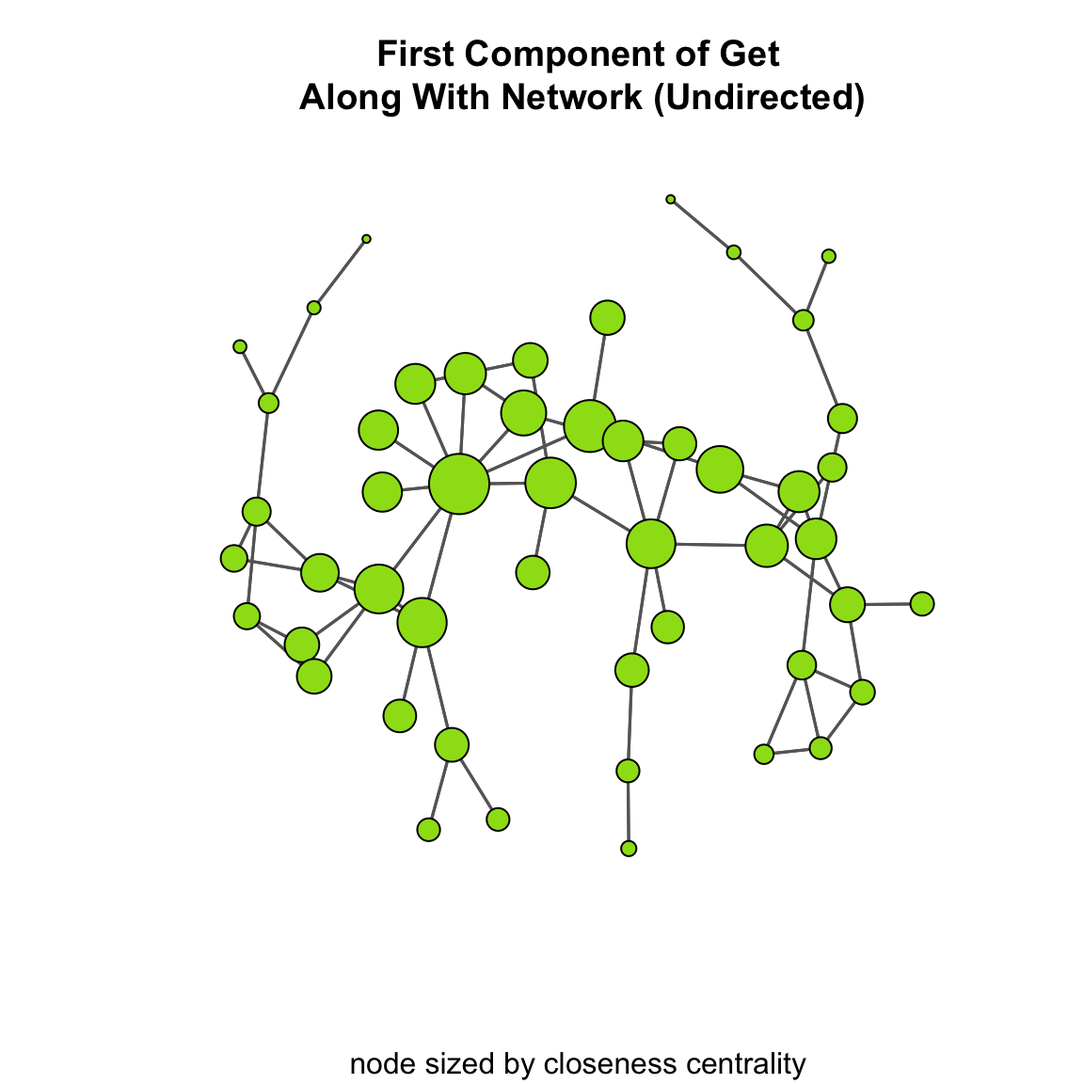
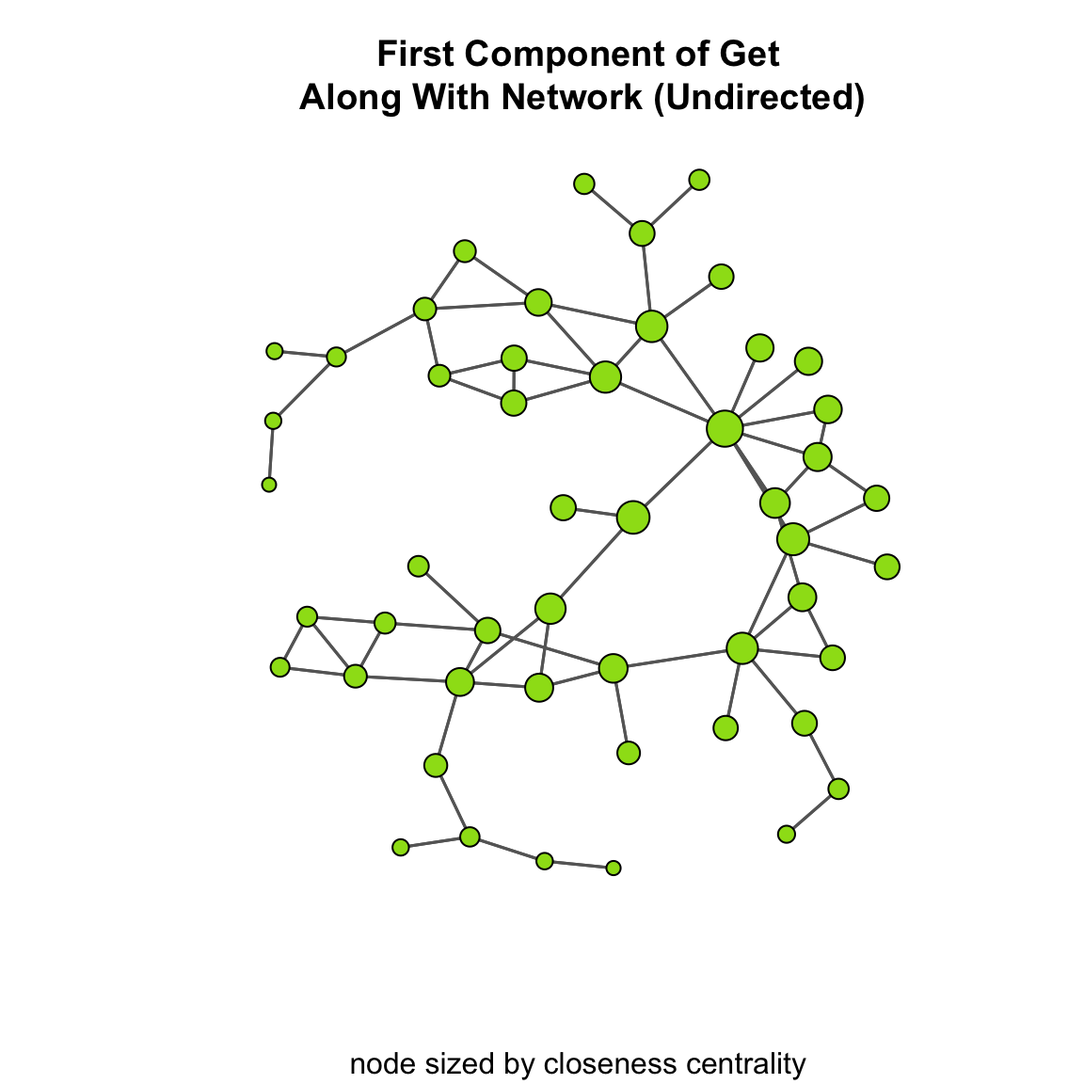
reworked closeness tutorial

diff --git a/docs/snaca-r-closeness-centrality.html b/docs/snaca-r-closeness-centrality.html
@@ -346,7 +346,7 @@ window.Quarto = {
 </ul>
 <section id="manually-calculating-closeness-centrality" class="level3">
 <h3 class="anchored" data-anchor-id="manually-calculating-closeness-centrality">Manually Calculating Closeness Centrality</h3>
-<p>We can manually calculate the distance matrix using the <code>geodist()</code> function in the <code>sna</code> package. Let’s take a look:</p>
+<p>We can manually calculate the distance matrix using the <code>geodist()</code> function in the <code>sna</code> package. Be sure to load the <code>sna</code> library using <code>library( sna )</code> Let’s take a look:</p>
 <div class="cell" data-layout-align="center">
 <div class="sourceCode cell-code" id="cb1"><pre class="sourceCode r code-with-copy"><code class="sourceCode r"><span id="cb1-1"><a href="#cb1-1" aria-hidden="true" tabindex="-1"></a><span class="co"># now, take a look at the geodist() function</span></span>
 <span id="cb1-2"><a href="#cb1-2" aria-hidden="true" tabindex="-1"></a>?geodist</span></code><button title="Copy to Clipboard" class="code-copy-button"><i class="bi"></i></button></pre></div>
@@ -681,19 +681,16 @@ stand.close 0.44 0.67 0.8 0.57 0.57</code></pre>
 <p>For the <em>get along with</em> network, individuals could have asymmetric nominations. That is, <em>i</em> could nominate <em>j</em> and <em>j</em> didn’t necessarily nominate <em>i</em>. But, we are going to <strong>symmetrize</strong> the network by only taking ties for which <strong><em>both</em></strong> <em>i</em> and <em>j</em> indicated that the get along with the other person. This will give us an undirected network.</p>
 <div class="cell" data-layout-align="center">
 <div class="sourceCode cell-code" id="cb39"><pre class="sourceCode r code-with-copy"><code class="sourceCode r"><span id="cb39-1"><a href="#cb39-1" aria-hidden="true" tabindex="-1"></a><span class="co"># load the SNACpack package</span></span>
-<span id="cb39-2"><a href="#cb39-2" aria-hidden="true" tabindex="-1"></a></span>
-<span id="cb39-3"><a href="#cb39-3" aria-hidden="true" tabindex="-1"></a><span class="fu">library</span>( SNACpack )</span>
-<span id="cb39-4"><a href="#cb39-4" aria-hidden="true" tabindex="-1"></a></span>
-<span id="cb39-5"><a href="#cb39-5" aria-hidden="true" tabindex="-1"></a></span>
-<span id="cb39-6"><a href="#cb39-6" aria-hidden="true" tabindex="-1"></a><span class="co"># use the symmetrize() function to create an undirected matrix</span></span>
-<span id="cb39-7"><a href="#cb39-7" aria-hidden="true" tabindex="-1"></a><span class="co"># you will notice that this creates an object of class "matrix"</span></span>
+<span id="cb39-2"><a href="#cb39-2" aria-hidden="true" tabindex="-1"></a><span class="fu">library</span>( SNACpack )</span>
+<span id="cb39-3"><a href="#cb39-3" aria-hidden="true" tabindex="-1"></a></span>
+<span id="cb39-4"><a href="#cb39-4" aria-hidden="true" tabindex="-1"></a><span class="co"># use the symmetrize() function to create an undirected matrix</span></span>
+<span id="cb39-5"><a href="#cb39-5" aria-hidden="true" tabindex="-1"></a><span class="co"># you will notice that this creates an object of class "matrix"</span></span>
+<span id="cb39-6"><a href="#cb39-6" aria-hidden="true" tabindex="-1"></a>ga_mat_u <span class="ot">&lt;-</span> <span class="fu">symmetrize</span>( pins_ga_net, <span class="at">rule =</span> <span class="st">"strong"</span> )</span>
+<span id="cb39-7"><a href="#cb39-7" aria-hidden="true" tabindex="-1"></a></span>
 <span id="cb39-8"><a href="#cb39-8" aria-hidden="true" tabindex="-1"></a></span>
-<span id="cb39-9"><a href="#cb39-9" aria-hidden="true" tabindex="-1"></a>ga_mat_u <span class="ot">&lt;-</span> <span class="fu">symmetrize</span>( pins_ga_net, <span class="at">rule =</span> <span class="st">"strong"</span> )</span>
+<span id="cb39-9"><a href="#cb39-9" aria-hidden="true" tabindex="-1"></a><span class="co"># create the network object</span></span>
 <span id="cb39-10"><a href="#cb39-10" aria-hidden="true" tabindex="-1"></a></span>
-<span id="cb39-11"><a href="#cb39-11" aria-hidden="true" tabindex="-1"></a></span>
-<span id="cb39-12"><a href="#cb39-12" aria-hidden="true" tabindex="-1"></a><span class="co"># create the network object</span></span>
-<span id="cb39-13"><a href="#cb39-13" aria-hidden="true" tabindex="-1"></a></span>
-<span id="cb39-14"><a href="#cb39-14" aria-hidden="true" tabindex="-1"></a>ga_net_u <span class="ot">&lt;-</span> <span class="fu">as.network</span>( ga_mat_u, <span class="at">directed =</span> <span class="cn">FALSE</span> )</span></code><button title="Copy to Clipboard" class="code-copy-button"><i class="bi"></i></button></pre></div>
+<span id="cb39-11"><a href="#cb39-11" aria-hidden="true" tabindex="-1"></a>ga_net_u <span class="ot">&lt;-</span> <span class="fu">as.network</span>( ga_mat_u, <span class="at">directed =</span> <span class="cn">FALSE</span> )</span></code><button title="Copy to Clipboard" class="code-copy-button"><i class="bi"></i></button></pre></div>
 </div>
 <p><br></p>
 <p>Now, we have created an undirected network where ties represent “get along with” nominations from both individuals.</p>
@@ -711,13 +708,11 @@ stand.close 0.44 0.67 0.8 0.57 0.57</code></pre>
 <p>In the plot above, the first component (i.e.&nbsp;the largest subgraph) is colored green. To get the closeness centrality scores, we can use a function called <code>get.inducedSubgraph()</code> in the <code>sna</code> package to extract a subgraph that meets a condition. In this case, we want to take those cases who are in the first component. Let’s walk through the pieces.</p>
 <div class="cell" data-layout-align="center" data-figure.align="center" data-figure.height="5" data-figure.width="5">
 <div class="sourceCode cell-code" id="cb40"><pre class="sourceCode r code-with-copy"><code class="sourceCode r"><span id="cb40-1"><a href="#cb40-1" aria-hidden="true" tabindex="-1"></a><span class="co"># find the component membership</span></span>
-<span id="cb40-2"><a href="#cb40-2" aria-hidden="true" tabindex="-1"></a></span>
-<span id="cb40-3"><a href="#cb40-3" aria-hidden="true" tabindex="-1"></a>cd <span class="ot">&lt;-</span> <span class="fu">component.dist</span>( <span class="fu">as.matrix</span>( ga_net_u ), <span class="at">connected=</span><span class="st">"weak"</span> )</span>
+<span id="cb40-2"><a href="#cb40-2" aria-hidden="true" tabindex="-1"></a>cd <span class="ot">&lt;-</span> <span class="fu">component.dist</span>( <span class="fu">as.matrix</span>( ga_net_u ), <span class="at">connected=</span><span class="st">"weak"</span> )</span>
+<span id="cb40-3"><a href="#cb40-3" aria-hidden="true" tabindex="-1"></a></span>
 <span id="cb40-4"><a href="#cb40-4" aria-hidden="true" tabindex="-1"></a></span>
-<span id="cb40-5"><a href="#cb40-5" aria-hidden="true" tabindex="-1"></a></span>
-<span id="cb40-6"><a href="#cb40-6" aria-hidden="true" tabindex="-1"></a><span class="co"># find which component is the largest</span></span>
-<span id="cb40-7"><a href="#cb40-7" aria-hidden="true" tabindex="-1"></a></span>
-<span id="cb40-8"><a href="#cb40-8" aria-hidden="true" tabindex="-1"></a><span class="fu">sort</span>( <span class="fu">table</span>( cd<span class="sc">$</span>membership ) )</span></code><button title="Copy to Clipboard" class="code-copy-button"><i class="bi"></i></button></pre></div>
+<span id="cb40-5"><a href="#cb40-5" aria-hidden="true" tabindex="-1"></a><span class="co"># find which component is the largest</span></span>
+<span id="cb40-6"><a href="#cb40-6" aria-hidden="true" tabindex="-1"></a><span class="fu">sort</span>( <span class="fu">table</span>( cd<span class="sc">$</span>membership ) )</span></code><button title="Copy to Clipboard" class="code-copy-button"><i class="bi"></i></button></pre></div>
 <div class="cell-output cell-output-stdout">
 <pre><code>
   1   2   3   5   6   7   8   9  10  12  13  14  16  17  19  20  21  22  23  25 
@@ -737,36 +732,32 @@ stand.close 0.44 0.67 0.8 0.57 0.57</code></pre>
 </div>
 <div class="sourceCode cell-code" id="cb42"><pre class="sourceCode r code-with-copy"><code class="sourceCode r"><span id="cb42-1"><a href="#cb42-1" aria-hidden="true" tabindex="-1"></a><span class="co"># we can see that group number 4 is the largest group. This is the first component.</span></span>
 <span id="cb42-2"><a href="#cb42-2" aria-hidden="true" tabindex="-1"></a><span class="co"># so, we can assign the membership in the first component</span></span>
-<span id="cb42-3"><a href="#cb42-3" aria-hidden="true" tabindex="-1"></a></span>
-<span id="cb42-4"><a href="#cb42-4" aria-hidden="true" tabindex="-1"></a>first_comp <span class="ot">&lt;-</span> cd<span class="sc">$</span>membership</span>
-<span id="cb42-5"><a href="#cb42-5" aria-hidden="true" tabindex="-1"></a>first_comp[ cd<span class="sc">$</span>membership <span class="sc">!=</span> <span class="dv">4</span> ] <span class="ot">&lt;-</span> <span class="dv">0</span></span>
-<span id="cb42-6"><a href="#cb42-6" aria-hidden="true" tabindex="-1"></a>first_comp[ cd<span class="sc">$</span>membership <span class="sc">==</span> <span class="dv">4</span> ] <span class="ot">&lt;-</span> <span class="dv">1</span></span>
+<span id="cb42-3"><a href="#cb42-3" aria-hidden="true" tabindex="-1"></a>first_comp <span class="ot">&lt;-</span> cd<span class="sc">$</span>membership</span>
+<span id="cb42-4"><a href="#cb42-4" aria-hidden="true" tabindex="-1"></a>first_comp[ cd<span class="sc">$</span>membership <span class="sc">!=</span> <span class="dv">4</span> ] <span class="ot">&lt;-</span> <span class="dv">0</span></span>
+<span id="cb42-5"><a href="#cb42-5" aria-hidden="true" tabindex="-1"></a>first_comp[ cd<span class="sc">$</span>membership <span class="sc">==</span> <span class="dv">4</span> ] <span class="ot">&lt;-</span> <span class="dv">1</span></span>
+<span id="cb42-6"><a href="#cb42-6" aria-hidden="true" tabindex="-1"></a></span>
 <span id="cb42-7"><a href="#cb42-7" aria-hidden="true" tabindex="-1"></a></span>
-<span id="cb42-8"><a href="#cb42-8" aria-hidden="true" tabindex="-1"></a></span>
-<span id="cb42-9"><a href="#cb42-9" aria-hidden="true" tabindex="-1"></a><span class="co"># now we set this as a network attribute</span></span>
+<span id="cb42-8"><a href="#cb42-8" aria-hidden="true" tabindex="-1"></a><span class="co"># now we set this as a network attribute</span></span>
+<span id="cb42-9"><a href="#cb42-9" aria-hidden="true" tabindex="-1"></a>ga_net_u <span class="sc">%v%</span> <span class="st">"first_comp"</span> <span class="ot">&lt;-</span> first_comp</span>
 <span id="cb42-10"><a href="#cb42-10" aria-hidden="true" tabindex="-1"></a></span>
-<span id="cb42-11"><a href="#cb42-11" aria-hidden="true" tabindex="-1"></a>ga_net_u <span class="sc">%v%</span> <span class="st">"first_comp"</span> <span class="ot">&lt;-</span> first_comp</span>
-<span id="cb42-12"><a href="#cb42-12" aria-hidden="true" tabindex="-1"></a></span>
-<span id="cb42-13"><a href="#cb42-13" aria-hidden="true" tabindex="-1"></a></span>
-<span id="cb42-14"><a href="#cb42-14" aria-hidden="true" tabindex="-1"></a><span class="co"># Now, remove those not in the first component </span></span>
-<span id="cb42-15"><a href="#cb42-15" aria-hidden="true" tabindex="-1"></a><span class="co"># by using the get.inducedSubgraph() function.</span></span>
-<span id="cb42-16"><a href="#cb42-16" aria-hidden="true" tabindex="-1"></a><span class="co"># Specifically, we stipulate in the v= argument that </span></span>
-<span id="cb42-17"><a href="#cb42-17" aria-hidden="true" tabindex="-1"></a><span class="co"># we only want vertices that are in the first component.</span></span>
-<span id="cb42-18"><a href="#cb42-18" aria-hidden="true" tabindex="-1"></a></span>
-<span id="cb42-19"><a href="#cb42-19" aria-hidden="true" tabindex="-1"></a>ga_net_ucomp <span class="ot">&lt;-</span> <span class="fu">get.inducedSubgraph</span>( </span>
-<span id="cb42-20"><a href="#cb42-20" aria-hidden="true" tabindex="-1"></a>  ga_net_u, <span class="co"># the network                 </span></span>
-<span id="cb42-21"><a href="#cb42-21" aria-hidden="true" tabindex="-1"></a>  <span class="at">v =</span> <span class="fu">which</span>( ga_net_u <span class="sc">%v%</span> <span class="st">"first_comp"</span> <span class="sc">==</span> <span class="dv">1</span> )  <span class="co"># the condition</span></span>
-<span id="cb42-22"><a href="#cb42-22" aria-hidden="true" tabindex="-1"></a>  )</span>
-<span id="cb42-23"><a href="#cb42-23" aria-hidden="true" tabindex="-1"></a></span>
-<span id="cb42-24"><a href="#cb42-24" aria-hidden="true" tabindex="-1"></a></span>
-<span id="cb42-25"><a href="#cb42-25" aria-hidden="true" tabindex="-1"></a><span class="co"># Now, take a look at the plot.</span></span>
-<span id="cb42-26"><a href="#cb42-26" aria-hidden="true" tabindex="-1"></a></span>
-<span id="cb42-27"><a href="#cb42-27" aria-hidden="true" tabindex="-1"></a><span class="fu">gplot</span>( </span>
-<span id="cb42-28"><a href="#cb42-28" aria-hidden="true" tabindex="-1"></a>  ga_net_ucomp, </span>
-<span id="cb42-29"><a href="#cb42-29" aria-hidden="true" tabindex="-1"></a>  <span class="at">gmode =</span> <span class="st">"graph"</span>,</span>
-<span id="cb42-30"><a href="#cb42-30" aria-hidden="true" tabindex="-1"></a>  <span class="at">edge.col=</span><span class="st">"grey40"</span>, </span>
-<span id="cb42-31"><a href="#cb42-31" aria-hidden="true" tabindex="-1"></a>  <span class="at">vertex.col=</span><span class="st">"#9cde18"</span>, </span>
-<span id="cb42-32"><a href="#cb42-32" aria-hidden="true" tabindex="-1"></a>  <span class="at">main =</span> <span class="st">"First Component of Get</span><span class="sc">\n</span><span class="st"> Along With Network (Undirected)"</span> )</span></code><button title="Copy to Clipboard" class="code-copy-button"><i class="bi"></i></button></pre></div>
+<span id="cb42-11"><a href="#cb42-11" aria-hidden="true" tabindex="-1"></a></span>
+<span id="cb42-12"><a href="#cb42-12" aria-hidden="true" tabindex="-1"></a><span class="co"># Now, remove those not in the first component </span></span>
+<span id="cb42-13"><a href="#cb42-13" aria-hidden="true" tabindex="-1"></a><span class="co"># by using the get.inducedSubgraph() function.</span></span>
+<span id="cb42-14"><a href="#cb42-14" aria-hidden="true" tabindex="-1"></a><span class="co"># Specifically, we stipulate in the v= argument that </span></span>
+<span id="cb42-15"><a href="#cb42-15" aria-hidden="true" tabindex="-1"></a><span class="co"># we only want vertices that are in the first component.</span></span>
+<span id="cb42-16"><a href="#cb42-16" aria-hidden="true" tabindex="-1"></a>ga_net_ucomp <span class="ot">&lt;-</span> <span class="fu">get.inducedSubgraph</span>( </span>
+<span id="cb42-17"><a href="#cb42-17" aria-hidden="true" tabindex="-1"></a>  ga_net_u, <span class="co"># the network                 </span></span>
+<span id="cb42-18"><a href="#cb42-18" aria-hidden="true" tabindex="-1"></a>  <span class="at">v =</span> <span class="fu">which</span>( ga_net_u <span class="sc">%v%</span> <span class="st">"first_comp"</span> <span class="sc">==</span> <span class="dv">1</span> )  <span class="co"># the condition</span></span>
+<span id="cb42-19"><a href="#cb42-19" aria-hidden="true" tabindex="-1"></a>  )</span>
+<span id="cb42-20"><a href="#cb42-20" aria-hidden="true" tabindex="-1"></a></span>
+<span id="cb42-21"><a href="#cb42-21" aria-hidden="true" tabindex="-1"></a></span>
+<span id="cb42-22"><a href="#cb42-22" aria-hidden="true" tabindex="-1"></a><span class="co"># Now, take a look at the plot.</span></span>
+<span id="cb42-23"><a href="#cb42-23" aria-hidden="true" tabindex="-1"></a><span class="fu">gplot</span>( </span>
+<span id="cb42-24"><a href="#cb42-24" aria-hidden="true" tabindex="-1"></a>  ga_net_ucomp, </span>
+<span id="cb42-25"><a href="#cb42-25" aria-hidden="true" tabindex="-1"></a>  <span class="at">gmode =</span> <span class="st">"graph"</span>,</span>
+<span id="cb42-26"><a href="#cb42-26" aria-hidden="true" tabindex="-1"></a>  <span class="at">edge.col=</span><span class="st">"grey40"</span>, </span>
+<span id="cb42-27"><a href="#cb42-27" aria-hidden="true" tabindex="-1"></a>  <span class="at">vertex.col=</span><span class="st">"#9cde18"</span>, </span>
+<span id="cb42-28"><a href="#cb42-28" aria-hidden="true" tabindex="-1"></a>  <span class="at">main =</span> <span class="st">"First Component of Get</span><span class="sc">\n</span><span class="st"> Along With Network (Undirected)"</span> )</span></code><button title="Copy to Clipboard" class="code-copy-button"><i class="bi"></i></button></pre></div>
 <div class="cell-output-display">
 <div class="quarto-figure quarto-figure-center">
 <figure class="figure">
@@ -811,7 +802,9 @@ stand.close 0.44 0.67 0.8 0.57 0.57</code></pre>
 <pre><code>[1] 0.214429</code></pre>
 </div>
 </div>
-<p>Now that we have the scores, we can use them in the plot with the <code>vertex_rescale()</code> function:</p>
+<p>Wait, did you notice something about the undstandardized closeness scores? Go back and take a look. I will wait…</p>
+<p>Ok, I hope you noticed it also. If not, look <em>again</em> and you will see that all the scores are really small. Specifically, the mean is 0.0044. Now, think about why it is so small.</p>
+<p>If it is not immediately apparent, take a look at the plot of the network below where we size the nodes based on their closeness centrality score. All we have to do is pass these to the <code>vertex_rescale()</code> function:</p>
 <div class="cell" data-layout-align="center">
 <div class="sourceCode cell-code" id="cb49"><pre class="sourceCode r code-with-copy"><code class="sourceCode r"><span id="cb49-1"><a href="#cb49-1" aria-hidden="true" tabindex="-1"></a><span class="co"># now, take a look at the plot</span></span>
 <span id="cb49-2"><a href="#cb49-2" aria-hidden="true" tabindex="-1"></a><span class="fu">gplot</span>( </span>
@@ -819,7 +812,7 @@ stand.close 0.44 0.67 0.8 0.57 0.57</code></pre>
 <span id="cb49-4"><a href="#cb49-4" aria-hidden="true" tabindex="-1"></a>  <span class="at">gmode =</span> <span class="st">"graph"</span>,</span>
 <span id="cb49-5"><a href="#cb49-5" aria-hidden="true" tabindex="-1"></a>  <span class="at">edge.col=</span><span class="st">"grey40"</span>, </span>
 <span id="cb49-6"><a href="#cb49-6" aria-hidden="true" tabindex="-1"></a>  <span class="at">vertex.col=</span><span class="st">"#9cde18"</span>,</span>
-<span id="cb49-7"><a href="#cb49-7" aria-hidden="true" tabindex="-1"></a>  <span class="at">vertex.cex =</span> <span class="fu">vertex_rescale</span>( <span class="fu">closeness</span>( ga_net_ucomp, <span class="at">gmode=</span><span class="st">"graph"</span> ), <span class="fl">0.4</span>, <span class="dv">3</span> ),</span>
+<span id="cb49-7"><a href="#cb49-7" aria-hidden="true" tabindex="-1"></a>  <span class="at">vertex.cex =</span> <span class="fu">vertex_rescale</span>( <span class="fu">closeness</span>( ga_net_ucomp, <span class="at">gmode=</span><span class="st">"graph"</span> ), <span class="fl">0.7</span>, <span class="fl">1.8</span> ),</span>
 <span id="cb49-8"><a href="#cb49-8" aria-hidden="true" tabindex="-1"></a>  <span class="at">main =</span> <span class="st">"First Component of Get</span><span class="sc">\n</span><span class="st"> Along With Network (Undirected)"</span>,</span>
 <span id="cb49-9"><a href="#cb49-9" aria-hidden="true" tabindex="-1"></a>  <span class="at">sub =</span> <span class="st">"node sized by closeness centrality"</span></span>
 <span id="cb49-10"><a href="#cb49-10" aria-hidden="true" tabindex="-1"></a>  )</span></code><button title="Copy to Clipboard" class="code-copy-button"><i class="bi"></i></button></pre></div>
@@ -831,6 +824,25 @@ stand.close 0.44 0.67 0.8 0.57 0.57</code></pre>
 </div>
 </div>
 </div>
+<p>Now, looking at th plot, why is it that the maximum closenessness centrality score is only 0.0065? This mainly has to do with the graph being fairly “spread-out”. That is, there is not a lot of clustering and the average node has to go through a lot of edges to reach most other nodes. To see this, we can calculate the distance matrix as we did above:</p>
+<div class="cell" data-layout-align="center">
+<div class="sourceCode cell-code" id="cb50"><pre class="sourceCode r code-with-copy"><code class="sourceCode r"><span id="cb50-1"><a href="#cb50-1" aria-hidden="true" tabindex="-1"></a><span class="co"># get the geodesics</span></span>
+<span id="cb50-2"><a href="#cb50-2" aria-hidden="true" tabindex="-1"></a>ga_net_ucomp_geodist <span class="ot">&lt;-</span> <span class="fu">geodist</span>( ga_net_ucomp )</span>
+<span id="cb50-3"><a href="#cb50-3" aria-hidden="true" tabindex="-1"></a></span>
+<span id="cb50-4"><a href="#cb50-4" aria-hidden="true" tabindex="-1"></a><span class="co"># calculate the distances</span></span>
+<span id="cb50-5"><a href="#cb50-5" aria-hidden="true" tabindex="-1"></a>ga_net_ucomp_distance <span class="ot">&lt;-</span> <span class="fu">rowSums</span>( ga_net_ucomp_geodist<span class="sc">$</span>gdist )</span></code><button title="Copy to Clipboard" class="code-copy-button"><i class="bi"></i></button></pre></div>
+</div>
+<p>The mean distance is 236.96 meaning that the average nodes has to go through a lot of edges to reach other nodes. Again, a visual aid may help. Take a look at the plot below:</p>
+<div class="cell" data-layout-align="center">
+<div class="cell-output-display">
+<div class="quarto-figure quarto-figure-center">
+<figure class="figure">
+<p><img src="snaca-r-closeness-centrality_files/figure-html/unnamed-chunk-23-1.png" class="img-fluid quarto-figure quarto-figure-center figure-img" width="576"></p>
+</figure>
+</div>
+</div>
+</div>
+<p>What are the fewest number of edges node 4 has to traverse to reach node 13? To reach 135? These are large distances! That is how we get such small closeness centrality scores.</p>
 </section>
 <section id="power-and-influence-network-directed-network" class="level3">
 <h3 class="anchored" data-anchor-id="power-and-influence-network-directed-network">Power and Influence Network (Directed Network)</h3>
@@ -840,21 +852,19 @@ stand.close 0.44 0.67 0.8 0.57 0.57</code></pre>
 <div class="cell-output-display">
 <div class="quarto-figure quarto-figure-center">
 <figure class="figure">
-<p><img src="snaca-r-closeness-centrality_files/figure-html/unnamed-chunk-23-1.png" class="img-fluid quarto-figure quarto-figure-center figure-img" width="576"></p>
+<p><img src="snaca-r-closeness-centrality_files/figure-html/unnamed-chunk-25-1.png" class="img-fluid quarto-figure quarto-figure-center figure-img" width="576"></p>
 </figure>
 </div>
 </div>
 </div>
 <p>In the plot above, the first component (i.e.&nbsp;the largest subgraph) is shown in red. Now, let’s again use the <code>get.inducedSubgraph()</code> function in the <code>sna</code> package to extract a subgraph that meets the first component condition.</p>
 <div class="cell" data-layout-align="center" data-figure.align="center" data-figure.height="5" data-figure.width="5">
-<div class="sourceCode cell-code" id="cb50"><pre class="sourceCode r code-with-copy"><code class="sourceCode r"><span id="cb50-1"><a href="#cb50-1" aria-hidden="true" tabindex="-1"></a><span class="co"># find the component membership</span></span>
-<span id="cb50-2"><a href="#cb50-2" aria-hidden="true" tabindex="-1"></a></span>
-<span id="cb50-3"><a href="#cb50-3" aria-hidden="true" tabindex="-1"></a>cd <span class="ot">&lt;-</span> <span class="fu">component.dist</span>( <span class="fu">as.matrix</span>( pins_pi_net ), <span class="at">connected=</span><span class="st">"weak"</span> )</span>
-<span id="cb50-4"><a href="#cb50-4" aria-hidden="true" tabindex="-1"></a></span>
-<span id="cb50-5"><a href="#cb50-5" aria-hidden="true" tabindex="-1"></a></span>
-<span id="cb50-6"><a href="#cb50-6" aria-hidden="true" tabindex="-1"></a><span class="co"># find which component is the largest</span></span>
-<span id="cb50-7"><a href="#cb50-7" aria-hidden="true" tabindex="-1"></a></span>
-<span id="cb50-8"><a href="#cb50-8" aria-hidden="true" tabindex="-1"></a><span class="fu">sort</span>( <span class="fu">table</span>( cd<span class="sc">$</span>membership ) )</span></code><button title="Copy to Clipboard" class="code-copy-button"><i class="bi"></i></button></pre></div>
+<div class="sourceCode cell-code" id="cb51"><pre class="sourceCode r code-with-copy"><code class="sourceCode r"><span id="cb51-1"><a href="#cb51-1" aria-hidden="true" tabindex="-1"></a><span class="co"># find the component membership</span></span>
+<span id="cb51-2"><a href="#cb51-2" aria-hidden="true" tabindex="-1"></a>cd <span class="ot">&lt;-</span> <span class="fu">component.dist</span>( <span class="fu">as.matrix</span>( pins_pi_net ), <span class="at">connected=</span><span class="st">"weak"</span> )</span>
+<span id="cb51-3"><a href="#cb51-3" aria-hidden="true" tabindex="-1"></a></span>
+<span id="cb51-4"><a href="#cb51-4" aria-hidden="true" tabindex="-1"></a></span>
+<span id="cb51-5"><a href="#cb51-5" aria-hidden="true" tabindex="-1"></a><span class="co"># find which component is the largest</span></span>
+<span id="cb51-6"><a href="#cb51-6" aria-hidden="true" tabindex="-1"></a><span class="fu">sort</span>( <span class="fu">table</span>( cd<span class="sc">$</span>membership ) )</span></code><button title="Copy to Clipboard" class="code-copy-button"><i class="bi"></i></button></pre></div>
 <div class="cell-output cell-output-stdout">
 <pre><code>
   2   3   4   5   6   7   8   9  10  11  12  13  14  15  16  17  18  19  20  21 
@@ -870,53 +880,51 @@ stand.close 0.44 0.67 0.8 0.57 0.57</code></pre>
 104 105 106 107 108  35  70   1 
   1   1   1   1   1   2   3  95 </code></pre>
 </div>
-<div class="sourceCode cell-code" id="cb52"><pre class="sourceCode r code-with-copy"><code class="sourceCode r"><span id="cb52-1"><a href="#cb52-1" aria-hidden="true" tabindex="-1"></a><span class="co"># we can see that group number 1 is the largest group. This is the first component.</span></span>
-<span id="cb52-2"><a href="#cb52-2" aria-hidden="true" tabindex="-1"></a><span class="co"># so, we can assign the membership in the first component</span></span>
-<span id="cb52-3"><a href="#cb52-3" aria-hidden="true" tabindex="-1"></a></span>
-<span id="cb52-4"><a href="#cb52-4" aria-hidden="true" tabindex="-1"></a>first_comp <span class="ot">&lt;-</span> cd<span class="sc">$</span>membership</span>
-<span id="cb52-5"><a href="#cb52-5" aria-hidden="true" tabindex="-1"></a>first_comp[ cd<span class="sc">$</span>membership <span class="sc">!=</span> <span class="dv">1</span> ] <span class="ot">&lt;-</span> <span class="dv">0</span></span>
-<span id="cb52-6"><a href="#cb52-6" aria-hidden="true" tabindex="-1"></a>first_comp[ cd<span class="sc">$</span>membership <span class="sc">==</span> <span class="dv">1</span> ] <span class="ot">&lt;-</span> <span class="dv">1</span></span>
-<span id="cb52-7"><a href="#cb52-7" aria-hidden="true" tabindex="-1"></a></span>
-<span id="cb52-8"><a href="#cb52-8" aria-hidden="true" tabindex="-1"></a></span>
-<span id="cb52-9"><a href="#cb52-9" aria-hidden="true" tabindex="-1"></a><span class="co"># now we set this as a network attribute</span></span>
-<span id="cb52-10"><a href="#cb52-10" aria-hidden="true" tabindex="-1"></a></span>
-<span id="cb52-11"><a href="#cb52-11" aria-hidden="true" tabindex="-1"></a>pins_pi_net <span class="sc">%v%</span> <span class="st">"first_comp"</span> <span class="ot">&lt;-</span> first_comp</span>
-<span id="cb52-12"><a href="#cb52-12" aria-hidden="true" tabindex="-1"></a></span>
-<span id="cb52-13"><a href="#cb52-13" aria-hidden="true" tabindex="-1"></a></span>
-<span id="cb52-14"><a href="#cb52-14" aria-hidden="true" tabindex="-1"></a><span class="co"># Now, remove those not in the first component by using </span></span>
-<span id="cb52-15"><a href="#cb52-15" aria-hidden="true" tabindex="-1"></a><span class="co"># the get.inducedSubgraph() function.</span></span>
-<span id="cb52-16"><a href="#cb52-16" aria-hidden="true" tabindex="-1"></a><span class="co"># Specifically, we stipulate in the v= argument </span></span>
-<span id="cb52-17"><a href="#cb52-17" aria-hidden="true" tabindex="-1"></a><span class="co"># that we only want vertices that are in the first component.</span></span>
-<span id="cb52-18"><a href="#cb52-18" aria-hidden="true" tabindex="-1"></a></span>
-<span id="cb52-19"><a href="#cb52-19" aria-hidden="true" tabindex="-1"></a>pins_pi_net_comp <span class="ot">&lt;-</span> <span class="fu">get.inducedSubgraph</span>( </span>
-<span id="cb52-20"><a href="#cb52-20" aria-hidden="true" tabindex="-1"></a>  pins_pi_net, <span class="co"># the network                 </span></span>
-<span id="cb52-21"><a href="#cb52-21" aria-hidden="true" tabindex="-1"></a>  <span class="at">v =</span> <span class="fu">which</span>( pins_pi_net <span class="sc">%v%</span> <span class="st">"first_comp"</span> <span class="sc">==</span> <span class="dv">1</span> )  <span class="co"># the condition</span></span>
-<span id="cb52-22"><a href="#cb52-22" aria-hidden="true" tabindex="-1"></a>  )</span>
-<span id="cb52-23"><a href="#cb52-23" aria-hidden="true" tabindex="-1"></a></span>
-<span id="cb52-24"><a href="#cb52-24" aria-hidden="true" tabindex="-1"></a></span>
-<span id="cb52-25"><a href="#cb52-25" aria-hidden="true" tabindex="-1"></a><span class="co"># Now, take a look at the plot:</span></span>
-<span id="cb52-26"><a href="#cb52-26" aria-hidden="true" tabindex="-1"></a></span>
-<span id="cb52-27"><a href="#cb52-27" aria-hidden="true" tabindex="-1"></a><span class="fu">gplot</span>( </span>
-<span id="cb52-28"><a href="#cb52-28" aria-hidden="true" tabindex="-1"></a>  pins_pi_net_comp, </span>
-<span id="cb52-29"><a href="#cb52-29" aria-hidden="true" tabindex="-1"></a>  <span class="at">gmode =</span> <span class="st">"digraph"</span>,</span>
-<span id="cb52-30"><a href="#cb52-30" aria-hidden="true" tabindex="-1"></a>  <span class="at">edge.col=</span><span class="st">"grey40"</span>, </span>
-<span id="cb52-31"><a href="#cb52-31" aria-hidden="true" tabindex="-1"></a>  <span class="at">vertex.col=</span><span class="st">"#ab163b"</span>, </span>
-<span id="cb52-32"><a href="#cb52-32" aria-hidden="true" tabindex="-1"></a>  <span class="at">main =</span> <span class="st">"First Component of Power</span><span class="sc">\n</span><span class="st"> Network (Directed)"</span> )</span></code><button title="Copy to Clipboard" class="code-copy-button"><i class="bi"></i></button></pre></div>
+<div class="sourceCode cell-code" id="cb53"><pre class="sourceCode r code-with-copy"><code class="sourceCode r"><span id="cb53-1"><a href="#cb53-1" aria-hidden="true" tabindex="-1"></a><span class="co"># we can see that group number 1 is the largest group. This is the first component.</span></span>
+<span id="cb53-2"><a href="#cb53-2" aria-hidden="true" tabindex="-1"></a><span class="co"># so, we can assign the membership in the first component</span></span>
+<span id="cb53-3"><a href="#cb53-3" aria-hidden="true" tabindex="-1"></a>first_comp <span class="ot">&lt;-</span> cd<span class="sc">$</span>membership</span>
+<span id="cb53-4"><a href="#cb53-4" aria-hidden="true" tabindex="-1"></a>first_comp[ cd<span class="sc">$</span>membership <span class="sc">!=</span> <span class="dv">1</span> ] <span class="ot">&lt;-</span> <span class="dv">0</span></span>
+<span id="cb53-5"><a href="#cb53-5" aria-hidden="true" tabindex="-1"></a>first_comp[ cd<span class="sc">$</span>membership <span class="sc">==</span> <span class="dv">1</span> ] <span class="ot">&lt;-</span> <span class="dv">1</span></span>
+<span id="cb53-6"><a href="#cb53-6" aria-hidden="true" tabindex="-1"></a></span>
+<span id="cb53-7"><a href="#cb53-7" aria-hidden="true" tabindex="-1"></a></span>
+<span id="cb53-8"><a href="#cb53-8" aria-hidden="true" tabindex="-1"></a><span class="co"># now we set this as a network attribute</span></span>
+<span id="cb53-9"><a href="#cb53-9" aria-hidden="true" tabindex="-1"></a>pins_pi_net <span class="sc">%v%</span> <span class="st">"first_comp"</span> <span class="ot">&lt;-</span> first_comp</span>
+<span id="cb53-10"><a href="#cb53-10" aria-hidden="true" tabindex="-1"></a></span>
+<span id="cb53-11"><a href="#cb53-11" aria-hidden="true" tabindex="-1"></a></span>
+<span id="cb53-12"><a href="#cb53-12" aria-hidden="true" tabindex="-1"></a><span class="co"># Now, remove those not in the first component by using </span></span>
+<span id="cb53-13"><a href="#cb53-13" aria-hidden="true" tabindex="-1"></a><span class="co"># the get.inducedSubgraph() function.</span></span>
+<span id="cb53-14"><a href="#cb53-14" aria-hidden="true" tabindex="-1"></a><span class="co"># Specifically, we stipulate in the v= argument </span></span>
+<span id="cb53-15"><a href="#cb53-15" aria-hidden="true" tabindex="-1"></a><span class="co"># that we only want vertices that are in the first component.</span></span>
+<span id="cb53-16"><a href="#cb53-16" aria-hidden="true" tabindex="-1"></a>pins_pi_net_comp <span class="ot">&lt;-</span> <span class="fu">get.inducedSubgraph</span>( </span>
+<span id="cb53-17"><a href="#cb53-17" aria-hidden="true" tabindex="-1"></a>  pins_pi_net, <span class="co"># the network                 </span></span>
+<span id="cb53-18"><a href="#cb53-18" aria-hidden="true" tabindex="-1"></a>  <span class="at">v =</span> <span class="fu">which</span>( pins_pi_net <span class="sc">%v%</span> <span class="st">"first_comp"</span> <span class="sc">==</span> <span class="dv">1</span> )  <span class="co"># the condition</span></span>
+<span id="cb53-19"><a href="#cb53-19" aria-hidden="true" tabindex="-1"></a>  )</span>
+<span id="cb53-20"><a href="#cb53-20" aria-hidden="true" tabindex="-1"></a></span>
+<span id="cb53-21"><a href="#cb53-21" aria-hidden="true" tabindex="-1"></a></span>
+<span id="cb53-22"><a href="#cb53-22" aria-hidden="true" tabindex="-1"></a><span class="co"># Now, take a look at the plot:</span></span>
+<span id="cb53-23"><a href="#cb53-23" aria-hidden="true" tabindex="-1"></a><span class="fu">gplot</span>( </span>
+<span id="cb53-24"><a href="#cb53-24" aria-hidden="true" tabindex="-1"></a>  pins_pi_net_comp, </span>
+<span id="cb53-25"><a href="#cb53-25" aria-hidden="true" tabindex="-1"></a>  <span class="at">gmode =</span> <span class="st">"digraph"</span>,</span>
+<span id="cb53-26"><a href="#cb53-26" aria-hidden="true" tabindex="-1"></a>  <span class="at">edge.col=</span><span class="st">"grey40"</span>, </span>
+<span id="cb53-27"><a href="#cb53-27" aria-hidden="true" tabindex="-1"></a>  <span class="at">vertex.col=</span><span class="st">"#ab163b"</span>, </span>
+<span id="cb53-28"><a href="#cb53-28" aria-hidden="true" tabindex="-1"></a>  <span class="at">main =</span> <span class="st">"First Component of Power</span><span class="sc">\n</span><span class="st"> Network (Directed)"</span> )</span></code><button title="Copy to Clipboard" class="code-copy-button"><i class="bi"></i></button></pre></div>
 <div class="cell-output-display">
 <div class="quarto-figure quarto-figure-center">
 <figure class="figure">
-<p><img src="snaca-r-closeness-centrality_files/figure-html/unnamed-chunk-24-1.png" class="img-fluid quarto-figure quarto-figure-center figure-img" width="576"></p>
+<p><img src="snaca-r-closeness-centrality_files/figure-html/unnamed-chunk-26-1.png" class="img-fluid quarto-figure quarto-figure-center figure-img" width="576"></p>
 </figure>
 </div>
 </div>
 </div>
-<p>Now, let’s calculate our closeness scores. Note a slight change though, in the <code>closeness()</code> function there is the <code>gmode=</code> argument where we specify whether the graph is directed (i.e.&nbsp;<code>"digraph"</code> or undirected <code>"graph"</code>. If we use <code>gmode = "digraph"</code> we will get all zeros because it is using the directionality of the network. For our purposes here, we will set it to <code>gmode = "graph"</code> so we can actually get values:</p>
+<p>Now, let’s calculate our closeness scores. Note a slight change though, in the <code>closeness()</code> function there is the <code>gmode=</code> argument where we specify whether the graph is directed (i.e.&nbsp;<code>"digraph"</code> or undirected <code>"graph"</code>. If we use <code>gmode = "digraph"</code> we will get all zeros because it is using the directionality of the network. For our purposes here, we will set the <code>gmode =</code> argument to <code>"graph"</code>.</p>
+<p><em>Why do this</em>? Well, let’s think about what we are doing. By setting the <code>gmode =</code> argument to <code>"graph"</code>, we are saying that the directionality doesn’t really matter for our network in terms of what closeness means. For example, consider the following: <em>A -&gt; B -&gt; C</em>. Here, by removing the directionality we are saying that <em>A</em> is as close to <em>C</em> as <em>C</em> is to <em>A</em>. Note that if we didn’t ignore the directionalty, then <em>A</em> is of distance 2 from <em>C</em>, but <em>C</em> is of <strong>infinite</strong> distance from <em>A</em>. We don’t want all those infinite distances, so we ignore the directionality here. In our case, with power influence ties, it makes sense to do this. <strong>But</strong>, this does <u> not apply to all networks </u> and you should think about this decision when working with your network. Essentially ask yourself: <em>does it make sense to ignore the directionality?</em></p>
+<p>Ok, back to where we were. Let’s go ahead and set the <code>gmode = "graph"</code> so we can actually get values:</p>
 <div class="cell" data-layout-align="center">
-<div class="sourceCode cell-code" id="cb53"><pre class="sourceCode r code-with-copy"><code class="sourceCode r"><span id="cb53-1"><a href="#cb53-1" aria-hidden="true" tabindex="-1"></a><span class="co"># get the number of nodes</span></span>
-<span id="cb53-2"><a href="#cb53-2" aria-hidden="true" tabindex="-1"></a>n_nodes <span class="ot">&lt;-</span> <span class="fu">dim</span>( <span class="fu">as.matrix</span>( pins_pi_net_comp ) )[<span class="dv">1</span>]</span>
-<span id="cb53-3"><a href="#cb53-3" aria-hidden="true" tabindex="-1"></a></span>
-<span id="cb53-4"><a href="#cb53-4" aria-hidden="true" tabindex="-1"></a><span class="co">#unstandardized closeness</span></span>
-<span id="cb53-5"><a href="#cb53-5" aria-hidden="true" tabindex="-1"></a><span class="fu">closeness</span>( pins_pi_net_comp, <span class="at">gmode=</span><span class="st">"graph"</span> ) <span class="sc">/</span> ( n_nodes <span class="sc">-</span> <span class="dv">1</span> ) </span></code><button title="Copy to Clipboard" class="code-copy-button"><i class="bi"></i></button></pre></div>
+<div class="sourceCode cell-code" id="cb54"><pre class="sourceCode r code-with-copy"><code class="sourceCode r"><span id="cb54-1"><a href="#cb54-1" aria-hidden="true" tabindex="-1"></a><span class="co"># get the number of nodes</span></span>
+<span id="cb54-2"><a href="#cb54-2" aria-hidden="true" tabindex="-1"></a>n_nodes <span class="ot">&lt;-</span> <span class="fu">dim</span>( <span class="fu">as.matrix</span>( pins_pi_net_comp ) )[<span class="dv">1</span>]</span>
+<span id="cb54-3"><a href="#cb54-3" aria-hidden="true" tabindex="-1"></a></span>
+<span id="cb54-4"><a href="#cb54-4" aria-hidden="true" tabindex="-1"></a><span class="co"># unstandardized closeness</span></span>
+<span id="cb54-5"><a href="#cb54-5" aria-hidden="true" tabindex="-1"></a><span class="fu">closeness</span>( pins_pi_net_comp, <span class="at">gmode=</span><span class="st">"graph"</span> ) <span class="sc">/</span> ( n_nodes <span class="sc">-</span> <span class="dv">1</span> ) </span></code><button title="Copy to Clipboard" class="code-copy-button"><i class="bi"></i></button></pre></div>
 <div class="cell-output cell-output-stdout">
 <pre><code> [1] 0.003367003 0.003891051 0.002857143 0.002824859 0.003311258 0.002531646
  [7] 0.003215434 0.002652520 0.002932551 0.002544529 0.002941176 0.002958580
@@ -935,8 +943,8 @@ stand.close 0.44 0.67 0.8 0.57 0.57</code></pre>
 [85] 0.002057613 0.002985075 0.002824859 0.004132231 0.003436426 0.002985075
 [91] 0.002564103 0.003058104 0.002777778 0.002857143 0.003472222</code></pre>
 </div>
-<div class="sourceCode cell-code" id="cb55"><pre class="sourceCode r code-with-copy"><code class="sourceCode r"><span id="cb55-1"><a href="#cb55-1" aria-hidden="true" tabindex="-1"></a><span class="co">#standardized closeness</span></span>
-<span id="cb55-2"><a href="#cb55-2" aria-hidden="true" tabindex="-1"></a><span class="fu">closeness</span>( pins_pi_net_comp, <span class="at">gmode=</span><span class="st">"graph"</span> ) </span></code><button title="Copy to Clipboard" class="code-copy-button"><i class="bi"></i></button></pre></div>
+<div class="sourceCode cell-code" id="cb56"><pre class="sourceCode r code-with-copy"><code class="sourceCode r"><span id="cb56-1"><a href="#cb56-1" aria-hidden="true" tabindex="-1"></a><span class="co"># standardized closeness</span></span>
+<span id="cb56-2"><a href="#cb56-2" aria-hidden="true" tabindex="-1"></a><span class="fu">closeness</span>( pins_pi_net_comp, <span class="at">gmode=</span><span class="st">"graph"</span> ) </span></code><button title="Copy to Clipboard" class="code-copy-button"><i class="bi"></i></button></pre></div>
 <div class="cell-output cell-output-stdout">
 <pre><code> [1] 0.3164983 0.3657588 0.2685714 0.2655367 0.3112583 0.2379747 0.3022508
  [8] 0.2493369 0.2756598 0.2391858 0.2764706 0.2781065 0.2379747 0.3601533
@@ -953,27 +961,27 @@ stand.close 0.44 0.67 0.8 0.57 0.57</code></pre>
 [85] 0.1934156 0.2805970 0.2655367 0.3884298 0.3230241 0.2805970 0.2410256
 [92] 0.2874618 0.2611111 0.2685714 0.3263889</code></pre>
 </div>
-<div class="sourceCode cell-code" id="cb57"><pre class="sourceCode r code-with-copy"><code class="sourceCode r"><span id="cb57-1"><a href="#cb57-1" aria-hidden="true" tabindex="-1"></a><span class="co"># Group Closeness Centralization</span></span>
-<span id="cb57-2"><a href="#cb57-2" aria-hidden="true" tabindex="-1"></a><span class="fu">centralization</span>( pins_pi_net_comp, closeness, <span class="at">mode=</span><span class="st">"graph"</span> )</span></code><button title="Copy to Clipboard" class="code-copy-button"><i class="bi"></i></button></pre></div>
+<div class="sourceCode cell-code" id="cb58"><pre class="sourceCode r code-with-copy"><code class="sourceCode r"><span id="cb58-1"><a href="#cb58-1" aria-hidden="true" tabindex="-1"></a><span class="co"># Group Closeness Centralization</span></span>
+<span id="cb58-2"><a href="#cb58-2" aria-hidden="true" tabindex="-1"></a><span class="fu">centralization</span>( pins_pi_net_comp, closeness, <span class="at">mode=</span><span class="st">"graph"</span> )</span></code><button title="Copy to Clipboard" class="code-copy-button"><i class="bi"></i></button></pre></div>
 <div class="cell-output cell-output-stdout">
 <pre><code>[1] 0.2273318</code></pre>
 </div>
 </div>
 <p>Again, we can use the closeness scores in the plot using the <code>vertex_rescale()</code> function:</p>
 <div class="cell" data-layout-align="center">
-<div class="sourceCode cell-code" id="cb59"><pre class="sourceCode r code-with-copy"><code class="sourceCode r"><span id="cb59-1"><a href="#cb59-1" aria-hidden="true" tabindex="-1"></a><span class="fu">gplot</span>( </span>
-<span id="cb59-2"><a href="#cb59-2" aria-hidden="true" tabindex="-1"></a>  pins_pi_net_comp, </span>
-<span id="cb59-3"><a href="#cb59-3" aria-hidden="true" tabindex="-1"></a>  <span class="at">gmode =</span> <span class="st">"digraph"</span>,</span>
-<span id="cb59-4"><a href="#cb59-4" aria-hidden="true" tabindex="-1"></a>  <span class="at">edge.col=</span><span class="st">"grey40"</span>, </span>
-<span id="cb59-5"><a href="#cb59-5" aria-hidden="true" tabindex="-1"></a>  <span class="at">vertex.col=</span><span class="st">"#ab163b"</span>,</span>
-<span id="cb59-6"><a href="#cb59-6" aria-hidden="true" tabindex="-1"></a>  <span class="at">vertex.cex =</span> <span class="fu">vertex_rescale</span>( <span class="fu">closeness</span>( pins_pi_net_comp, <span class="at">gmode=</span><span class="st">"graph"</span> ), <span class="fl">0.4</span>, <span class="dv">3</span> ),</span>
-<span id="cb59-7"><a href="#cb59-7" aria-hidden="true" tabindex="-1"></a>  <span class="at">main =</span> <span class="st">"First Component of Power</span><span class="sc">\n</span><span class="st"> Network (Directed)"</span>,</span>
-<span id="cb59-8"><a href="#cb59-8" aria-hidden="true" tabindex="-1"></a>  <span class="at">sub =</span> <span class="st">"node sized by closeness centrality"</span></span>
-<span id="cb59-9"><a href="#cb59-9" aria-hidden="true" tabindex="-1"></a>  )</span></code><button title="Copy to Clipboard" class="code-copy-button"><i class="bi"></i></button></pre></div>
+<div class="sourceCode cell-code" id="cb60"><pre class="sourceCode r code-with-copy"><code class="sourceCode r"><span id="cb60-1"><a href="#cb60-1" aria-hidden="true" tabindex="-1"></a><span class="fu">gplot</span>( </span>
+<span id="cb60-2"><a href="#cb60-2" aria-hidden="true" tabindex="-1"></a>  pins_pi_net_comp, </span>
+<span id="cb60-3"><a href="#cb60-3" aria-hidden="true" tabindex="-1"></a>  <span class="at">gmode =</span> <span class="st">"digraph"</span>,</span>
+<span id="cb60-4"><a href="#cb60-4" aria-hidden="true" tabindex="-1"></a>  <span class="at">edge.col=</span><span class="st">"grey40"</span>, </span>
+<span id="cb60-5"><a href="#cb60-5" aria-hidden="true" tabindex="-1"></a>  <span class="at">vertex.col=</span><span class="st">"#ab163b"</span>,</span>
+<span id="cb60-6"><a href="#cb60-6" aria-hidden="true" tabindex="-1"></a>  <span class="at">vertex.cex =</span> <span class="fu">vertex_rescale</span>( <span class="fu">closeness</span>( pins_pi_net_comp, <span class="at">gmode=</span><span class="st">"graph"</span> ), <span class="fl">0.4</span>, <span class="dv">3</span> ),</span>
+<span id="cb60-7"><a href="#cb60-7" aria-hidden="true" tabindex="-1"></a>  <span class="at">main =</span> <span class="st">"First Component of Power</span><span class="sc">\n</span><span class="st"> Network (Directed)"</span>,</span>
+<span id="cb60-8"><a href="#cb60-8" aria-hidden="true" tabindex="-1"></a>  <span class="at">sub =</span> <span class="st">"node sized by closeness centrality"</span></span>
+<span id="cb60-9"><a href="#cb60-9" aria-hidden="true" tabindex="-1"></a>  )</span></code><button title="Copy to Clipboard" class="code-copy-button"><i class="bi"></i></button></pre></div>
 <div class="cell-output-display">
 <div class="quarto-figure quarto-figure-center">
 <figure class="figure">
-<p><img src="snaca-r-closeness-centrality_files/figure-html/unnamed-chunk-26-1.png" class="img-fluid quarto-figure quarto-figure-center figure-img" width="576"></p>
+<p><img src="snaca-r-closeness-centrality_files/figure-html/unnamed-chunk-28-1.png" class="img-fluid quarto-figure quarto-figure-center figure-img" width="576"></p>
 </figure>
 </div>
 </div>
